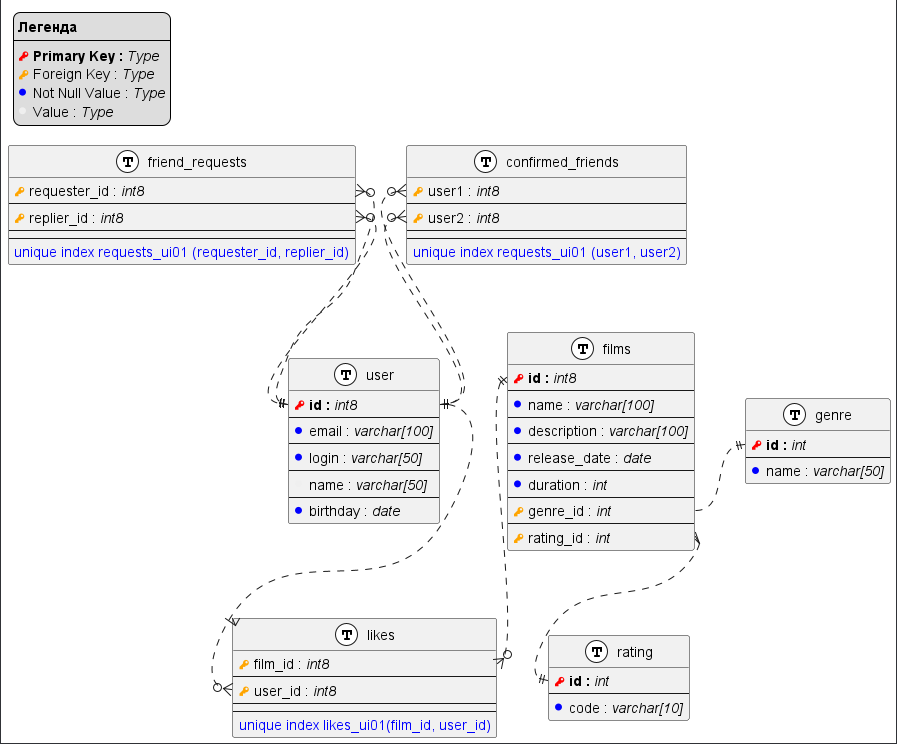
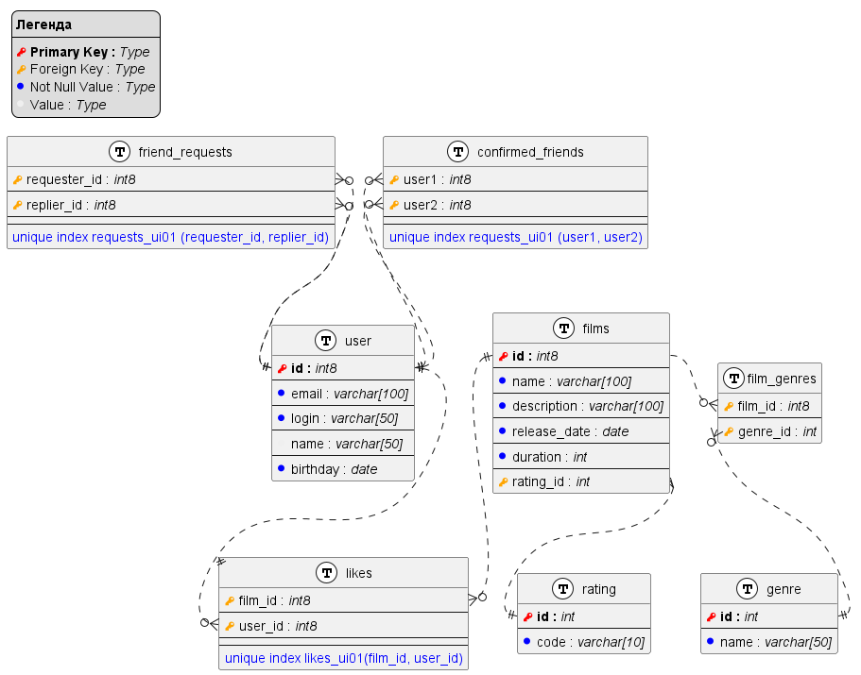
Спринт 12, добавил примеры запросов

diff --git a/README.md b/README.md
@@ -4,7 +4,7 @@
 
 ![db-schema](db-schema.png)
 
-<details><summary>код схемы в plantuml</summary>
+<details><summary>Код схемы в plantuml</summary>
 
 ```plantuml
 !define table(name, desc) class name as "desc" << (T, white) >>
@@ -68,8 +68,6 @@ table(films, "films") {
     ----
     nn(duration, int)
     ----
-    fk(genre_id, int)
-    ----
     fk(rating_id, int)
 }
 
@@ -80,6 +78,12 @@ table(likes, "likes") {
     ----
     ----
     <color:blue>unique index likes_ui01(film_id, user_id)</color>
+}
+
+table(fg, "film_genres") {
+    fk(film_id, int8)
+    ----
+    fk(genre_id, int)
 }
 
 table(genre, "genre") {
@@ -103,9 +107,109 @@ friends::user2 }o..|| users::id
 films::id ||..o{ likes::film_id
 users::id ||..o{ likes::user_id
 
-films::genre_id }.r.|| genre::id
 films::rating_id }..|| rating::id
 
+films::id ||.r.o{ fg::film_id
+fg::genre_id }o..|| genre::id
+
+```
+
+</details>
+
+## Примеры запросов
+
+### По пользователям
+
+<details><summary>• Выбрать всех пользователей</summary>
+
+```sql
+select *
+  from users;
+```
+
+</details>
+
+<details><summary>• Выбрать пользователя по id</summary>
+
+```sql
+select *
+  from users
+ where id = :id;
+```
+
+</details>
+
+<details><summary>• Найти заявки на друзья отправленные пользователем</summary>
+
+```sql
+select *
+  from friend_requests
+ where requester_id = :id;
+```
+
+</details>
+
+<details><summary>• Найти всех друзей пользователя</summary>
+
+```sql
+select *
+  from confirmed_friends
+ where user1 = :id;
+```
+
+</details>
+
+### По фильмам
+
+<details><summary>• Выбрать все фильмы</summary>
+
+```sql
+select *
+  from films
+ where id = :id;
+```
+
+</details>
+
+<details><summary>• Выбрать фильм по id</summary>
+
+```sql
+select *
+  from films
+ where id = :id;
+```
+
+</details>
+
+<details><summary>• Найти жанры фильма</summary>
+
+```sql
+select r.code
+  from film_genres fg
+  join genres g on g.id = fg.genre_id
+ where fg.film_id = :id;
+```
+
+</details>
+
+<details><summary>• Найти рейтинг фильма</summary>
+
+```sql
+select r.code
+  from films f
+  join raiting r on r.id = f.raiting_id
+ where id = :id;
+```
+
+</details>
+
+<details><summary>• Найти количество лайков фильма</summary>
+
+```sql
+select count(1)
+  from films f
+  join likes k on k.film_id = f.id
+ where id = :id;
 ```
 
 </details>
